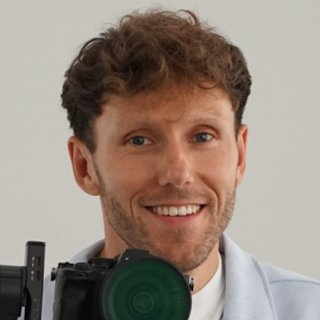
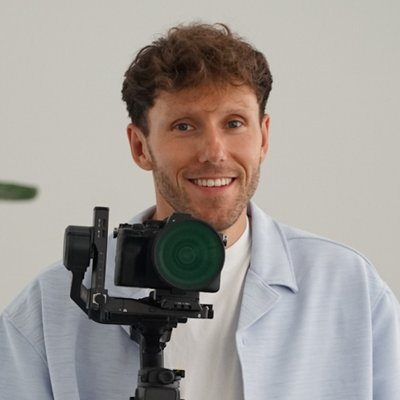
Porträt größer, mehr Bildausschnitt
Claude-Session: https://claude.ai/code/session_01AJV1VnaTk6XjbDaarjKAvw

diff --git a/assets/style.css b/assets/style.css
@@ -145,7 +145,7 @@ h3 { margin: 0; font-size: 20px; font-weight: 600; }
 .booking-intro p { margin: 0; font-size: 17px; }
 .booking-intro p.eyebrow { font-size: 13px; }
 .me { display: flex; align-items: center; gap: 16px; margin-top: 8px; line-height: 1.4; }
-.me-photo { width: 72px; height: 72px; border-radius: 50%; background: #CDBFAE; flex: none; overflow: hidden; }
+.me-photo { width: 120px; height: 120px; border-radius: 50%; background: #CDBFAE; flex: none; overflow: hidden; }
 .me-photo img { width: 100%; height: 100%; object-fit: cover; }
 .me small { display: block; font-size: 14px; color: var(--muted); }
 .booking-card { flex: 1 1 520px; min-width: 0; background: var(--bg); border-radius: 8px; padding: clamp(20px, 3vw, 32px); display: flex; flex-direction: column; gap: 24px; }
@@ -227,3 +227,5 @@ h3 { margin: 0; font-size: 20px; font-weight: 600; }
 
 /* Überschrift beim Erstgespräch in einer Zeile */
 #termin-title { font-size: clamp(26px, 2.5vw, 36px); }
+
+@media (max-width: 760px) { .me-photo { width: 96px; height: 96px; } }

diff --git a/index.html b/index.html
@@ -12,7 +12,7 @@
 <meta name="theme-color" content="#F4F1EC">
 <link rel="icon" href="assets/favicon.svg" type="image/svg+xml">
 <link rel="preload" href="assets/fonts/InterDisplay-Light.woff" as="font" type="font/woff" crossorigin>
-<link rel="stylesheet" href="assets/style.css?v=202610280731">
+<link rel="stylesheet" href="assets/style.css?v=202610280741">
 
 <script>
   /* =========================================================
@@ -306,6 +306,6 @@
   <small>20 Min · unverbindlich · per Video oder Telefon</small>
 </div>
 
-<script src="assets/main.js?v=202610280731"></script>
+<script src="assets/main.js?v=202610280741"></script>
 </body>
 </html>

diff --git a/datenschutz.html b/datenschutz.html
@@ -6,7 +6,7 @@
 <title>Datenschutz | Visuals von Dani</title>
 <meta name="robots" content="noindex">
 <link rel="icon" href="assets/favicon.svg" type="image/svg+xml">
-<link rel="stylesheet" href="assets/style.css?v=202610280731">
+<link rel="stylesheet" href="assets/style.css?v=202610280741">
 </head>
 <body>
 <div class="wrap">

diff --git a/impressum.html b/impressum.html
@@ -6,7 +6,7 @@
 <title>Impressum | Visuals von Dani</title>
 <meta name="robots" content="noindex">
 <link rel="icon" href="assets/favicon.svg" type="image/svg+xml">
-<link rel="stylesheet" href="assets/style.css?v=202610280731">
+<link rel="stylesheet" href="assets/style.css?v=202610280741">
 </head>
 <body>
 <div class="wrap">
